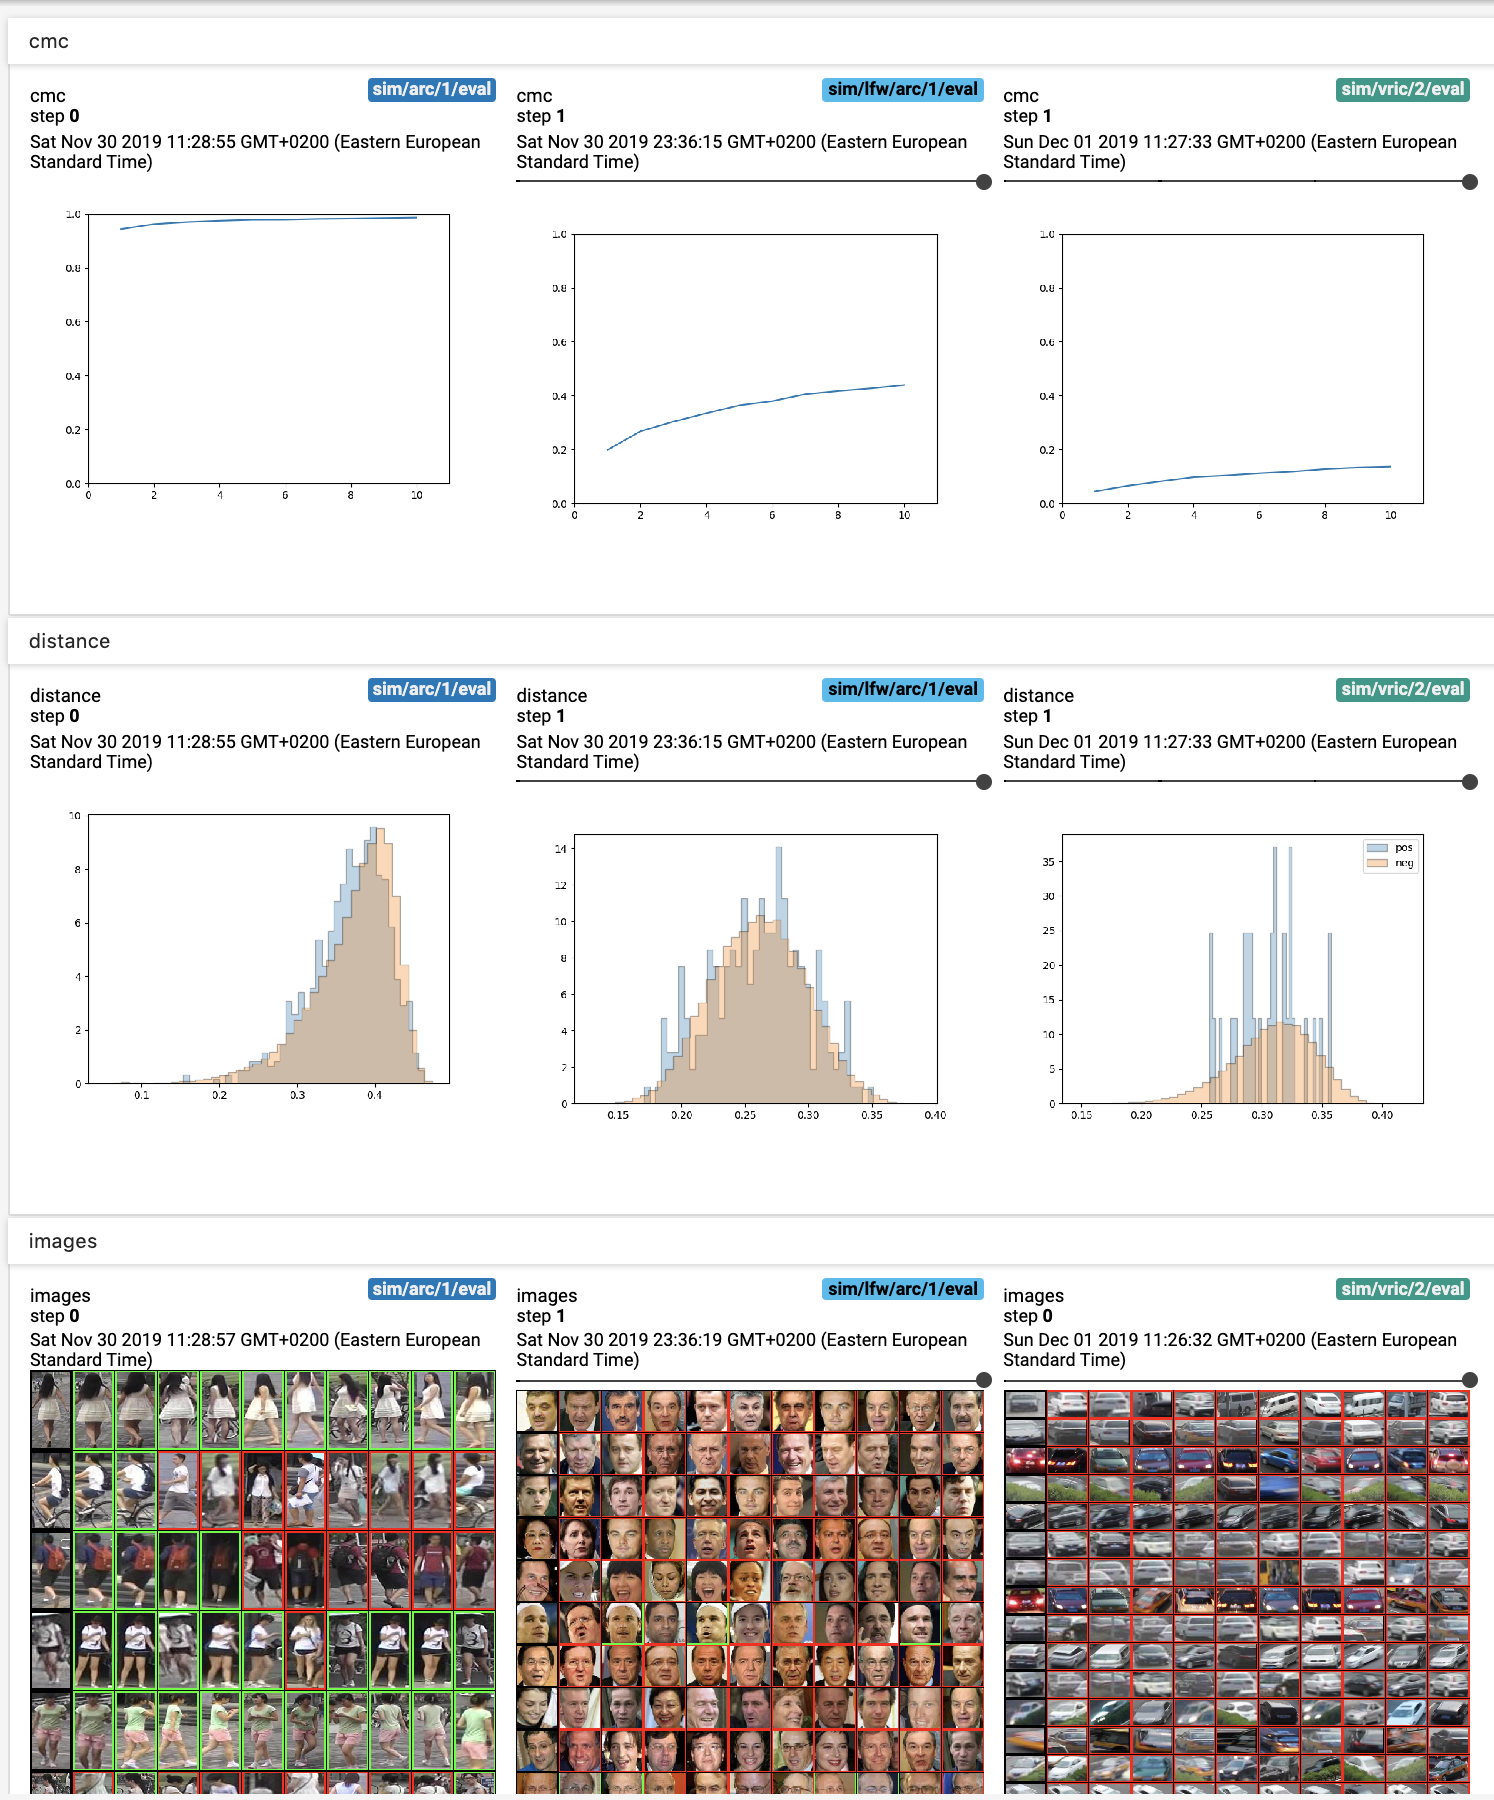
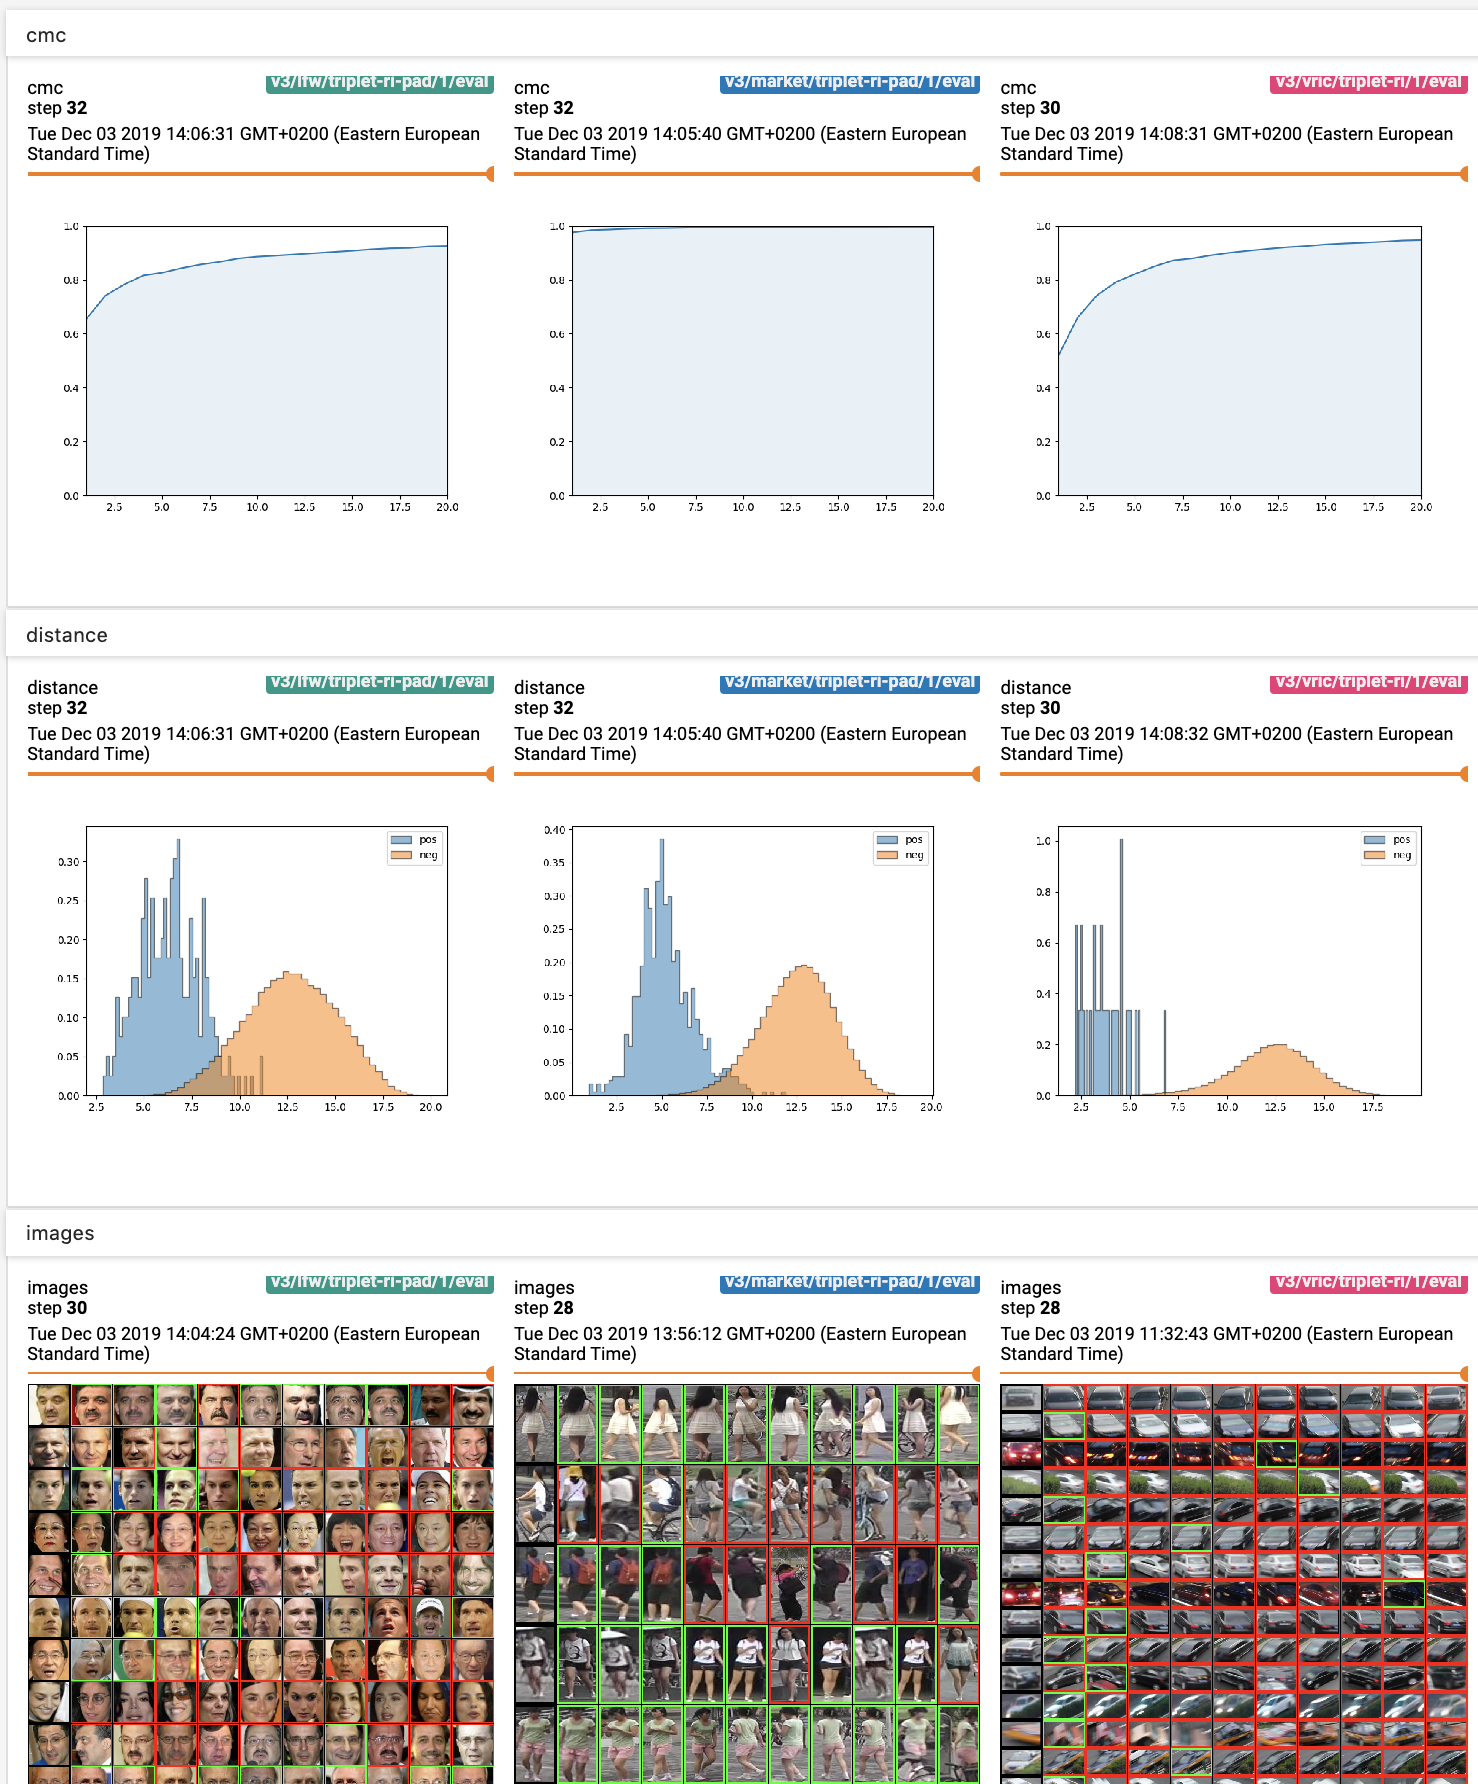
Update

diff --git a/samplers.py b/samplers.py
@@ -1,6 +1,7 @@
 import math
 import random
 
+import numpy as np
 import torch.utils
 
 
@@ -41,10 +42,7 @@ class RandomIdentityBatchSampler(torch.utils.data.Sampler):
             id_to_indices[id].append(index)
 
         if self.pad_instances:
-            import numpy as np
-            print(np.unique([len(x) for x in id_to_indices]))
             id_to_indices = [pad(indices) for indices in id_to_indices]
-            print(np.unique([len(x) for x in id_to_indices]))
 
         batches = []
         batch = []

diff --git a/utils.py b/utils.py
@@ -70,7 +70,8 @@ def visualize_ranks(query_images, gallery_images, sort_indices, eq, k):
 def cmc_curve_plot(cmc):
     fig = plt.figure()
     plt.plot(np.arange(1, cmc.shape[0] + 1), cmc)
-    plt.xlim(0, cmc.shape[0] + 1)
+    plt.fill_between(np.arange(1, cmc.shape[0] + 1), 0, cmc, alpha=0.1)
+    plt.xlim(1, cmc.shape[0])
     plt.ylim(0, 1)
 
     return fig
